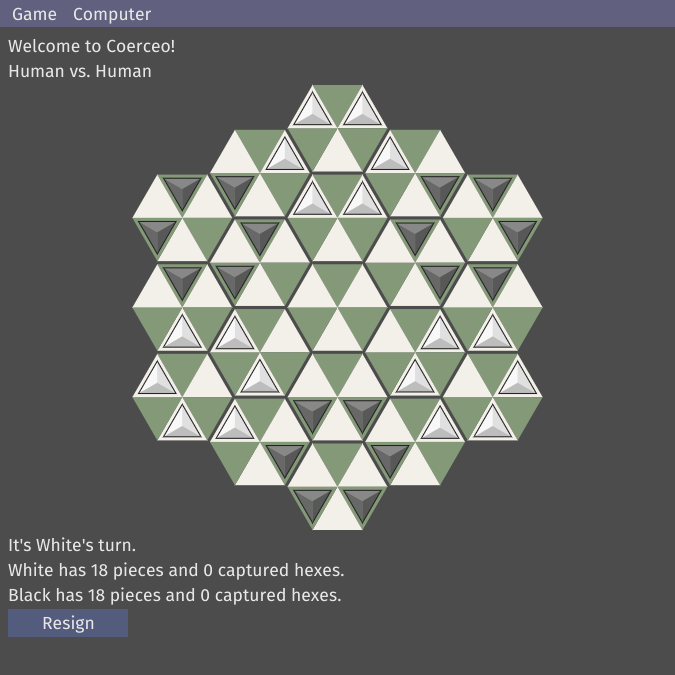
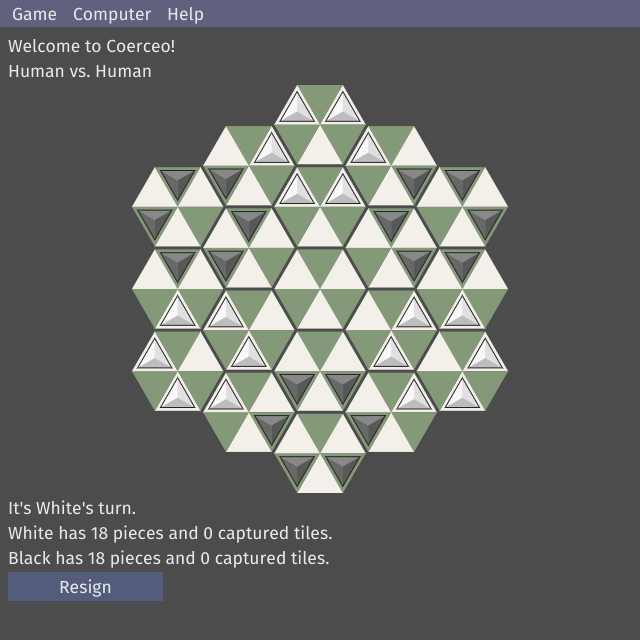
Bump version, add help menu, update screenshot

Changed region(s): [[0.0, 0.125, 0.8125, 0.9688], [0.0, 0.0, 0.3125, 0.125]]

diff --git a/src/view/mod.rs b/src/view/mod.rs
@@ -30,6 +30,7 @@ use update::Event;
 
 pub fn draw(ui: &Ui, size: (f32, f32), model: &Model) -> Option<Event> {
     let mut event = None;
+    let mut window_states = model.window_states.borrow_mut();
 
     ui.main_menu_bar(|| {
         ui.menu(im_str!("Game")).build(|| {
@@ -57,11 +58,23 @@ pub fn draw(ui: &Ui, size: (f32, f32), model: &Model) -> Option<Event> {
                 7,
             ).build();
             if ui.is_item_hovered() {
-                ui.tooltip_text("How many moves ahead the computer will search.\nFewer moves is faster and easier, while more moves is slower and more difficult.");
+                ui.tooltip_text(
+                    "How many moves ahead the computer will search.\nFewer moves is \
+                     faster and easier, while more moves is slower and more difficult.",
+                );
             }
 
             ui.menu_item(im_str!("Show debug info"))
-                .selected(&mut model.show_ai_debug_window.borrow_mut())
+                .selected(&mut window_states.ai_debug)
+                .build();
+        });
+
+        ui.menu(im_str!("Help")).build(|| {
+            ui.menu_item(im_str!("How to Play"))
+                .selected(&mut window_states.how_to_play)
+                .build();
+            ui.menu_item(im_str!("About"))
+                .selected(&mut window_states.about)
                 .build();
         });
     });
@@ -70,14 +83,37 @@ pub fn draw(ui: &Ui, size: (f32, f32), model: &Model) -> Option<Event> {
         draw_window(ui, size, model, &mut event);
     });
 
-    if *model.show_ai_debug_window.borrow() {
+    if window_states.ai_debug {
         ui.window(im_str!("AI Debug Info"))
-            .opened(&mut model.show_ai_debug_window.borrow_mut())
+            .opened(&mut window_states.ai_debug)
             .size((300.0, 600.0), ImGuiCond::FirstUseEver)
             .build(|| {
                 if let Ok(debug_info) = model.ai.debug_info.read() {
                     ui.text(debug_info.clone());
                 }
+            });
+    }
+
+    if window_states.how_to_play {
+        // TODO: Create an interactive, in-game tutorial to teach the rules of the game
+        ui.window(im_str!("How to Play"))
+            .opened(&mut window_states.how_to_play)
+            .build(|| {
+                ui.text(
+                    "Unfortunately, there isn't an in-game tutorial. Sorry!\nSee coerceo.com for \
+                     the rules of the game.",
+                );
+            });
+    }
+
+    if window_states.about {
+        ui.window(im_str!("About"))
+            .opened(&mut window_states.about)
+            .build(|| {
+                ui.text(
+                    "Coerceo v1.0.0\n\nAn unofficial clone of a strategic board game.\n\n\
+                     Copyright (C) 2017-2018 Ryan Huang\n\nhttps://github.com/NPN/coerceo",
+                );
             });
     }
 

diff --git a/src/model/mod.rs b/src/model/mod.rs
@@ -41,7 +41,7 @@ pub struct Model {
     pub exchanging: bool,
     pub ai: AI,
     pub ai_search_depth: RefCell<i32>,
-    pub show_ai_debug_window: RefCell<bool>,
+    pub window_states: RefCell<WindowStates>,
     pub outcome: Outcome,
     undo_stack: Vec<(Board, Option<MoveAnnotated>, Outcome)>,
     redo_stack: Vec<(Board, Option<MoveAnnotated>, Outcome)>,
@@ -64,7 +64,7 @@ impl Model {
             exchanging: false,
             ai: AI::new(),
             ai_search_depth: RefCell::new(6),
-            show_ai_debug_window: RefCell::new(false),
+            window_states: RefCell::new(WindowStates::default()),
             outcome: Outcome::InProgress,
             undo_stack: vec![],
             redo_stack: vec![],
@@ -179,6 +179,13 @@ impl Model {
         assert_eq!(self.outcome, Outcome::InProgress);
         self.outcome = Outcome::Win(self.board.turn.switch());
     }
+}
+
+#[derive(Default)]
+pub struct WindowStates {
+    pub about: bool,
+    pub ai_debug: bool,
+    pub how_to_play: bool,
 }
 
 #[derive(Copy, Clone)]
